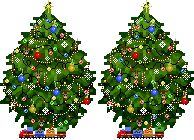
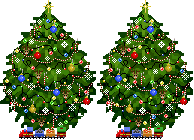
Twinkles the tree.

Changed region(s): [[0.4948, 0.0, 1.0, 1.0], [0.5876, 0.2286, 0.6186, 0.2571]]

diff --git a/js/grid.js b/js/grid.js
@@ -31,6 +31,17 @@ class Grid {
     tree.displayWidth = treeWidth;
     tree.displayHeight = treeHeight;
     tree.depth = Depths.TREE;
+
+    scene.anims.create({
+      key: 'treeTwinkle',
+      frames: this.scene_.anims.generateFrameNumbers('tree', {
+        start: 0,
+        end: 1
+      }),
+      frameRate: Config.TREE_ANIMATION_SPEED,
+      repeat: -1
+    });
+    tree.anims.play('treeTwinkle');
   }
 
   renderRug_() {

diff --git a/js/config.js b/js/config.js
@@ -33,6 +33,7 @@ const Config = {
   TREE_SPRITE_WIDTH: 97,
   TREE_SPRITE_HEIGHT: 140,
   TREE_SCALE: 0.7,
+  TREE_ANIMATION_SPEED: 5,
 
   /** The time needed for Patty to touch a block before it moves. */
   BLOCK_HYSTERESIS: 20,
